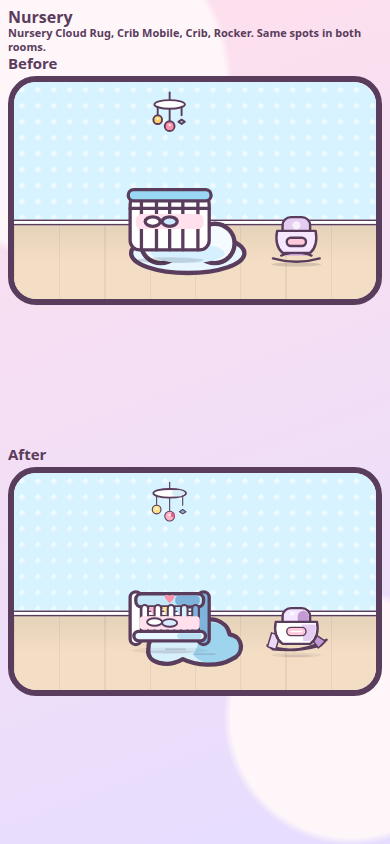
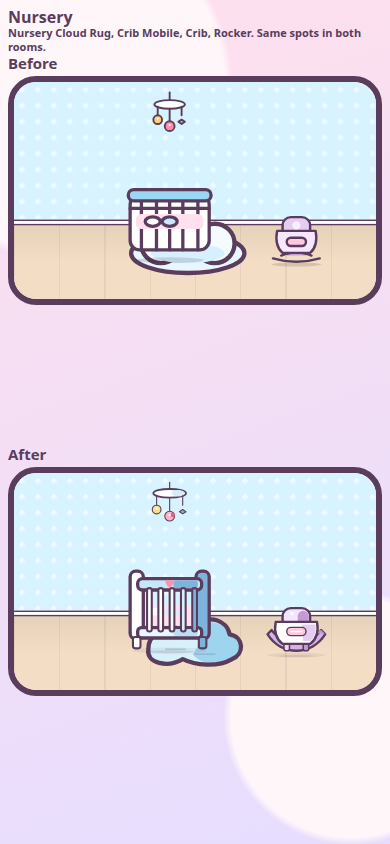
Give the crib a real frame and the rocker one curved runner.

Changed region(s): [[0.3077, 0.6777, 0.5538, 0.7701], [0.6769, 0.7393, 0.8308, 0.7701]]

diff --git a/src/art/v2-sample.ts b/src/art/v2-sample.ts
@@ -263,24 +263,23 @@ const MARKS: Record<string, V2Mark> = {
 
   crib: { vb: VB, body: pack(`
     ${shadow(50, 40)}
-    <rect x="8" y="34" width="12" height="56" rx="6" fill="#fff" ${ink()}/>
-    <rect x="80" y="34" width="12" height="56" rx="6" fill="#7eb4dc" ${ink()}/>
-    <rect x="14" y="36" width="72" height="14" rx="6" fill="#c5e8f8" ${ink()}/>
-    <rect x="56" y="38" width="26" height="10" rx="4" fill="#7eb4dc"/>
-    <path d="M50 46 C50 46 45 41.5 45 39.2 C45 37.2 47 36.4 48.6 37.6 C49.4 38.3 50 39.2 50 39.2 C50 39.2 50.6 38.3 51.4 37.6 C53 36.4 55 37.2 55 39.2 C55 41.5 50 46 50 46 Z" fill="#ff8fab"/>
-    <path d="M28 50 L32.5 59 L37 50 Z" fill="#ffb3c6"/>
-    <path d="M42 50 L46.5 59 L51 50 Z" fill="#ffe08a"/>
-    <path d="M56 50 L60.5 59 L65 50 Z" fill="#b9e4ff"/>
-    <rect x="20" y="48" width="7" height="30" rx="3.5" fill="#fff" ${ink(2.2)}/>
-    <rect x="34" y="48" width="7" height="30" rx="3.5" fill="#fff" ${ink(2.2)}/>
-    <rect x="48" y="48" width="7" height="30" rx="3.5" fill="#f4fbff" ${ink(2.2)}/>
-    <rect x="62" y="48" width="7" height="30" rx="3.5" fill="#d7f0fb" ${ink(2.2)}/>
-    <rect x="74" y="48" width="7" height="30" rx="3.5" fill="#7eb4dc" ${ink(2.2)}/>
-    <rect x="18" y="60" width="64" height="14" rx="4" fill="#ffe0ec"/>
-    <ellipse cx="34" cy="66" rx="8" ry="4" fill="#fff" ${ink(2)}/>
-    <ellipse cx="50" cy="67" rx="8" ry="4" fill="#d7ecff" ${ink(2)}/>
-    <rect x="12" y="76" width="76" height="10" rx="5" fill="#e7f6ff" ${ink()}/>
-    <rect x="58" y="78" width="26" height="6" rx="3" fill="#b9dff2"/>
+    <rect x="22" y="48" width="56" height="22" rx="4" fill="#ffe0ec"/>
+    <ellipse cx="34" cy="55" rx="8" ry="4.2" fill="#fff"/>
+    <ellipse cx="52" cy="56" rx="8" ry="4.2" fill="#d7ecff"/>
+    <rect x="8" y="12" width="14" height="72" rx="6" fill="#fff" ${ink()}/>
+    <rect x="78" y="12" width="14" height="72" rx="6" fill="#7eb4dc" ${ink()}/>
+    <rect x="16" y="20" width="68" height="12" rx="5" fill="#c5e8f8" ${ink()}/>
+    <rect x="54" y="22" width="26" height="8" rx="3" fill="#7eb4dc"/>
+    <rect x="16" y="72" width="68" height="11" rx="4" fill="#e7f6ff" ${ink()}/>
+    <rect x="54" y="74" width="26" height="7" rx="3" fill="#b9dff2"/>
+    <rect x="26" y="30" width="5" height="46" rx="2.4" fill="#fff" ${ink(2.2)}/>
+    <rect x="38" y="30" width="5" height="46" rx="2.4" fill="#fff" ${ink(2.2)}/>
+    <rect x="50" y="30" width="5" height="46" rx="2.4" fill="#f4fbff" ${ink(2.2)}/>
+    <rect x="62" y="30" width="5" height="46" rx="2.4" fill="#d7f0fb" ${ink(2.2)}/>
+    <rect x="74" y="30" width="5" height="46" rx="2.4" fill="#7eb4dc" ${ink(2.2)}/>
+    <path d="M50 30 C50 30 45.6 25.6 45.6 23.4 C45.6 21.4 47.5 20.6 49 21.8 C49.7 22.4 50 23.2 50 23.2 C50 23.2 50.3 22.4 51 21.8 C52.5 20.6 54.4 21.4 54.4 23.4 C54.4 25.6 50 30 50 30 Z" fill="#ff8fab"/>
+    <rect x="11" y="82" width="8" height="12" rx="2.4" fill="#fff" ${ink(2.2)}/>
+    <rect x="81" y="82" width="8" height="12" rx="2.4" fill="#7eb4dc" ${ink(2.2)}/>
   `) },
 };
 

diff --git a/src/art/hand.ts b/src/art/hand.ts
@@ -246,10 +246,11 @@ export const HAND: Record<string, V2Mark> = {
   `) },
 
   rocker: { vb: VB, body: pack(`
-    ${sh(50, 36)}
-    <path d="M8 82 Q48 98 94 74 L86 82 Q50 92 16 88 Z" fill="#d4b4e8" ${ink()}/>
-    <path d="M14 64 L8 84 L20 88 L26 68 Z" fill="#ead8f6" ${ink(2.2)}/>
-    <path d="M74 64 L92 76 L82 86 L70 70 Z" fill="#c49ad4" ${ink(2.2)}/>
+    ${sh(50, 42)}
+    <path d="M8 66 C28 98 72 98 92 66 L86 60 C70 82 30 82 14 60 Z" fill="#d4b4e8" ${ink()}/>
+    <path d="M50 78 C64 70 80 62 92 66 L86 60 C74 64 62 72 50 74 Z" fill="#c49ad4"/>
+    <rect x="32" y="72" width="8" height="18" rx="3" fill="#ead8f6" ${ink(2.2)}/>
+    <rect x="60" y="72" width="8" height="18" rx="3" fill="#c49ad4" ${ink(2.2)}/>
     <rect x="30" y="28" width="40" height="36" rx="12" fill="#f3e4ff" ${ink()}/>
     <rect x="52" y="32" width="16" height="28" rx="8" fill="#c49ad4"/>
     <path d="M20 48 Q16 70 30 80 H70 Q84 70 80 48 Z" fill="#fff" ${ink()}/>
